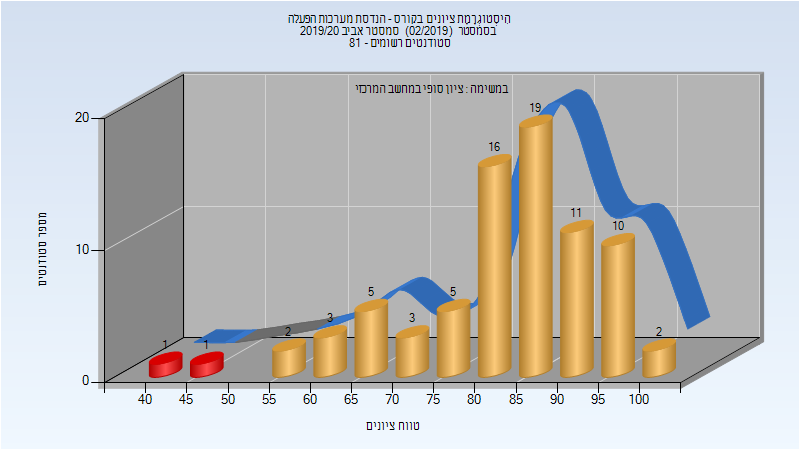
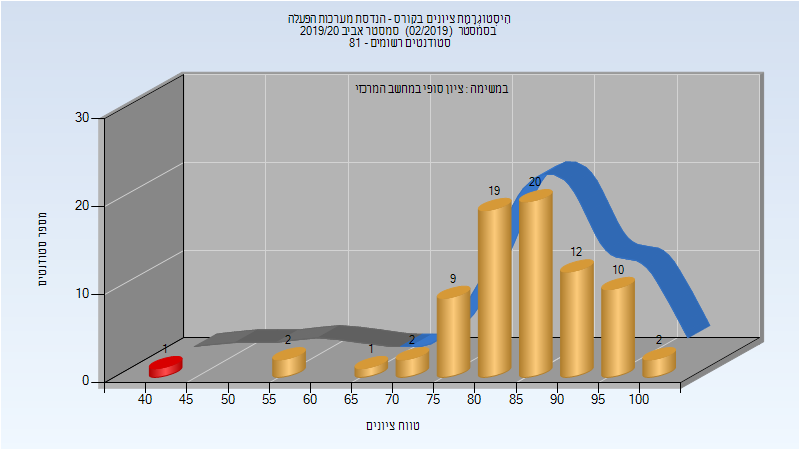
Deploy michael-maltsev/technion-histograms to github.com/michael-maltsev/technion-histograms.git:gh-pages

diff --git a/094201/index.html b/094201/index.html
@@ -325,13 +325,13 @@
 </thead>
 <tbody>
 <tr>
-<td>91</td>
-<td>85/6</td>
+<td>92</td>
+<td>86/6</td>
 <td>93</td>
 <td>38</td>
 <td>100</td>
-<td>76.78</td>
-<td>78</td>
+<td>77.065</td>
+<td>79</td>
 </tr>
 </tbody>
 </table>
@@ -351,12 +351,12 @@
 </thead>
 <tbody>
 <tr>
-<td>91</td>
-<td>85/6</td>
+<td>92</td>
+<td>86/6</td>
 <td>93</td>
 <td>38</td>
 <td>100</td>
-<td>76.593</td>
+<td>77.065</td>
 <td>79</td>
 </tr>
 </tbody>

diff --git a/094201/README.md b/094201/README.md
@@ -99,7 +99,7 @@
 
 | סטודנטים | עברו/נכשלו | אחוז עוברים | ציון מינימלי | ציון מקסימלי | ממוצע | חציון |
 | ---- | ---- | ---- | ---- | ---- | ---- | ---- |
-| 91 | 85/6 | 93 | 38 | 100 | 76.78 | 78 |
+| 92 | 86/6 | 93 | 38 | 100 | 77.065 | 79 |
 
 ### סופי
 
@@ -107,5 +107,5 @@
 
 | סטודנטים | עברו/נכשלו | אחוז עוברים | ציון מינימלי | ציון מקסימלי | ממוצע | חציון |
 | ---- | ---- | ---- | ---- | ---- | ---- | ---- |
-| 91 | 85/6 | 93 | 38 | 100 | 76.593 | 79 |
+| 92 | 86/6 | 93 | 38 | 100 | 77.065 | 79 |
 
